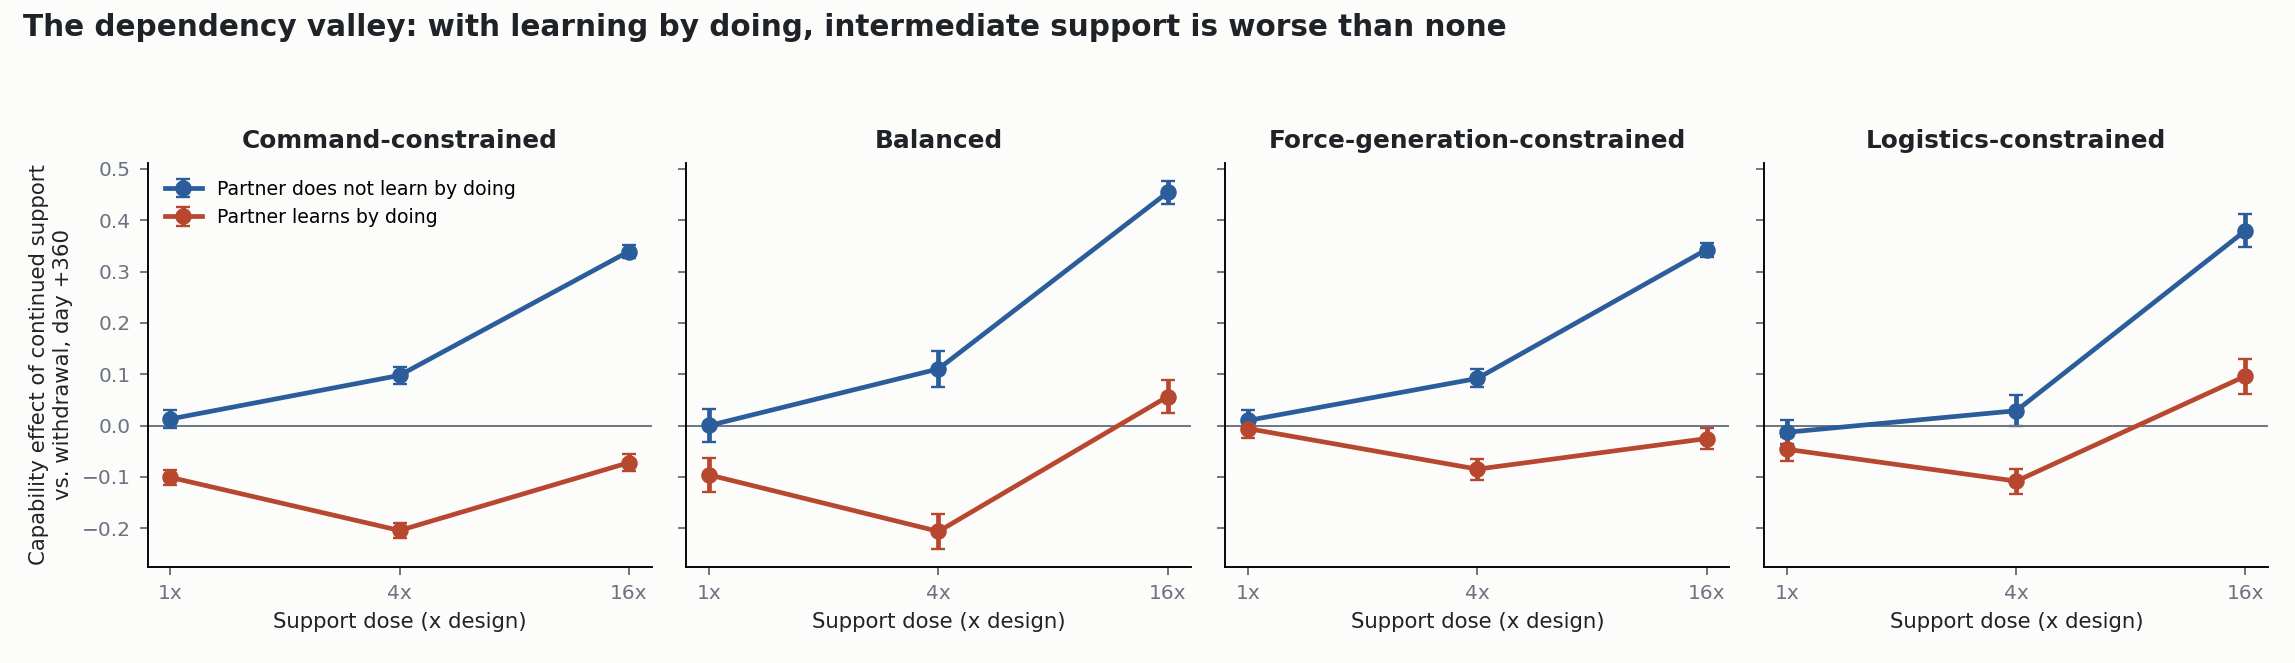
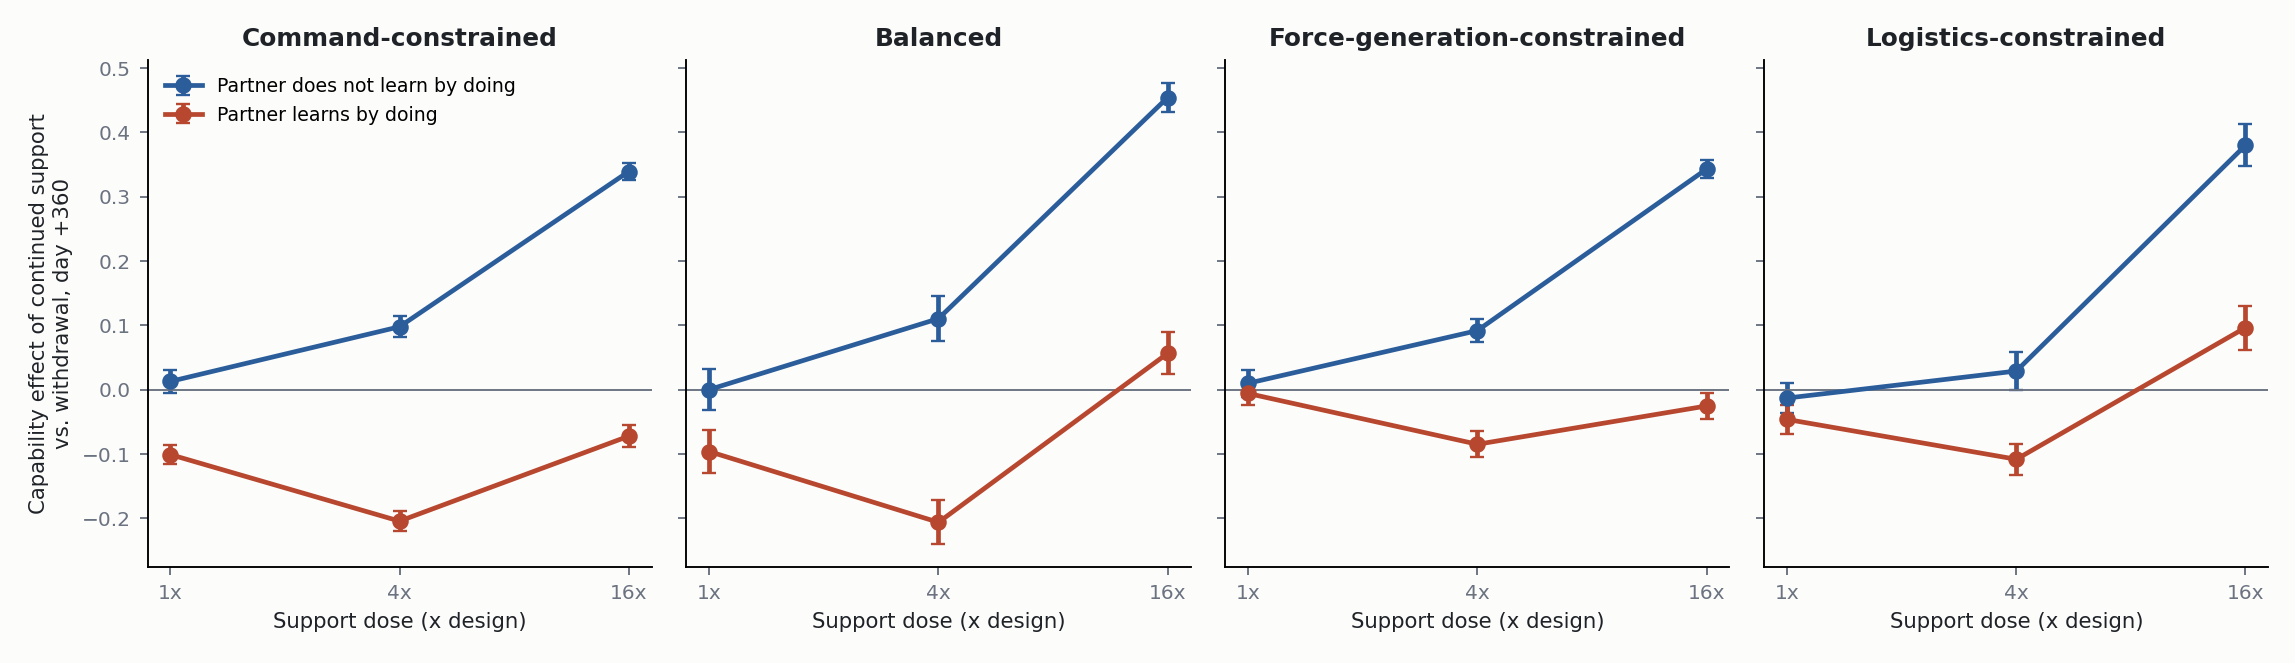
Mechanism figure (own output and losses avoided by dose); retitled dose-valley chart

diff --git a/experiments/etf_resurrection/plot_mechanism.py b/experiments/etf_resurrection/plot_mechanism.py
@@ -1,0 +1,43 @@
+"""Mechanism figure: what continued support does to the partner's own output and to losses, by support dose (production campaign, pooled over structures)."""
+from pathlib import Path
+import numpy as np, pandas as pd
+import matplotlib
+matplotlib.use("Agg")
+import matplotlib.pyplot as plt
+
+root = Path(__file__).parent
+e = pd.read_csv(root / "results/arc_prod/out/effects.csv")
+e = e[(e.h == 360) & (e.factor_support_intensity == 1.0)]
+variants = {0: {1: "A_lr0", 4: "D_dose4_lr0", 16: "D_dose16_lr0"},
+            0.25: {1: "A_lr0.25", 4: "D_dose4_lr0.25", 16: "D_dose16_lr0.25"}}
+INK, MUTED, BG = "#1f2328", "#6b7280", "#fcfcfb"
+C_OFF, C_ON = "#2b5d9b", "#b8472f"
+panels = [("post_indigenous_logistics_produced", 1e-3, "The partner's own supply output,\ncontinued minus withdrawn (thousand supply units)", "Partner's own output falls when it learns by doing"),
+          ("post_military_losses", -1.0, "Military personnel losses avoided\nby continuing support (people)", "Continued support saves lives either way")]
+fig, axes = plt.subplots(1, 2, figsize=(12.8, 4.9), facecolor=BG)
+pooled = {}
+for ax, (col, scale, ylab, title) in zip(axes, panels):
+    ax.set_facecolor(BG)
+    for lr, color, lab in ((0, C_OFF, "Partner does not learn by doing"), (0.25, C_ON, "Partner learns by doing")):
+        xs, ms, ci = [], [], []
+        for dose, v in variants[lr].items():
+            g = e[e.variant == v][col].dropna() * scale
+            xs.append(dose); ms.append(g.mean()); ci.append(1.96 * g.std(ddof=1) / np.sqrt(len(g)))
+            pooled[(col, lr, dose)] = round(g.mean(), 1)
+        ax.errorbar(xs, ms, yerr=ci, color=color, marker="o", lw=2.4, ms=7, capsize=3, label=lab)
+    ax.axhline(0, color=MUTED, lw=0.9)
+    ax.set_xscale("log", base=2); ax.set_xticks([1, 4, 16], ["1x", "4x", "16x"])
+    ax.set_xlabel("Support dose (x design)", fontsize=10.5, color=INK)
+    ax.set_ylabel(ylab, fontsize=10, color=INK)
+    ax.set_title(title, fontsize=11.5, color=INK, fontweight="bold", loc="left")
+    for s in ("top", "right"): ax.spines[s].set_visible(False)
+    ax.tick_params(colors=MUTED, labelsize=10)
+axes[0].legend(frameon=False, fontsize=9.5, loc="lower left")
+fig.tight_layout()
+out = root / "findings/mechanism_displacement.png"
+fig.savefig(out, dpi=170, facecolor=BG)
+print(out)
+for k, v in sorted(pooled.items()): print(k, v)
+# pooled capability effect at the same cells for slide numbers
+for lr in (0, 0.25):
+    print("capability", lr, {d: round(e[e.variant == v].composite_capability.mean(), 3) for d, v in variants[lr].items()})

diff --git a/experiments/etf_resurrection/plot_dose_valley.py b/experiments/etf_resurrection/plot_dose_valley.py
@@ -34,9 +34,7 @@ for ax, st in zip(axes, structs):
     ax.tick_params(colors=MUTED, labelsize=8.5)
 axes[0].set_ylabel("Capability effect of continued support\nvs. withdrawal, day +360", fontsize=9, color=INK)
 axes[0].legend(fontsize=8, frameon=False, loc="upper left")
-fig.suptitle("The dependency valley: with learning by doing, intermediate support is worse than none",
-             x=0.01, ha="left", fontsize=12.5, fontweight="bold", color=INK)
-fig.tight_layout(rect=(0, 0, 1, 0.93))
+fig.tight_layout()
 out = root / "findings/dose_valley.png"
 fig.savefig(out, dpi=170, facecolor=BG)
 print(out)
